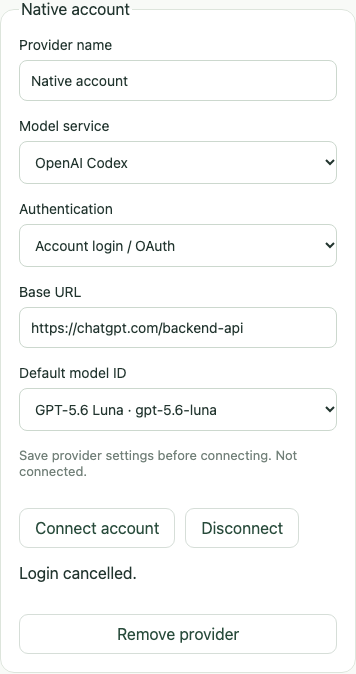
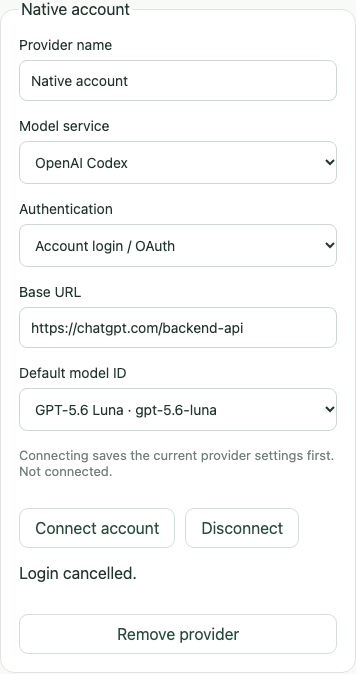
fix: save provider configuration before account login

Changed region(s): [[0.0618, 0.6543, 0.927, 0.7166]]

diff --git a/rewrite/src/routes/settings/+page.svelte b/rewrite/src/routes/settings/+page.svelte
@@ -4,7 +4,10 @@
   import { api } from "$lib/client";
   let settings: any;
   const customAuthModes = ["none", "api_key"];
-  const authModes = (service:string) => service === "custom" ? customAuthModes : settings?.catalog.find((p:any)=>p.id===service)?.authModes??[];
+  const authModes = (service: string) =>
+    service === "custom"
+      ? customAuthModes
+      : (settings?.catalog.find((p: any) => p.id === service)?.authModes ?? []);
   let keys = { chat: "", embedding: "" };
   let clear = { chat: false, embedding: false };
   let providerEnv: Record<string, string> = {};
@@ -36,32 +39,33 @@
       error = (e as Error).message;
     }
   }
+  async function persistProviders() {
+    settings = await api("/api/settings", {
+      defaultProviderId: settings.defaultProviderId,
+      providers: settings.providers.map((p: any) => ({
+        id: p.id,
+        name: p.name,
+        baseUrl: p.baseUrl,
+        modelId: p.modelId,
+        ...(p.service
+          ? { service: p.service, authMode: p.authMode, protocol: p.protocol }
+          : {}),
+        ...(providerEnv[p.id]
+          ? { credentialEnv: JSON.parse(providerEnv[p.id]) }
+          : {}),
+        ...(clearProviderKeys[p.id]
+          ? { apiKey: "" }
+          : providerKeys[p.id]
+            ? { apiKey: providerKeys[p.id] }
+            : {}),
+      })),
+    });
+    providerKeys = {};
+    providerEnv = {};
+    clearProviderKeys = {};
+  }
   async function saveProviders() {
-    await run(async () => {
-      settings = await api("/api/settings", {
-        defaultProviderId: settings.defaultProviderId,
-        providers: settings.providers.map((p: any) => ({
-          id: p.id,
-          name: p.name,
-          baseUrl: p.baseUrl,
-          modelId: p.modelId,
-          ...(p.service
-            ? { service: p.service, authMode: p.authMode, protocol: p.protocol }
-            : {}),
-          ...(providerEnv[p.id]
-            ? { credentialEnv: JSON.parse(providerEnv[p.id]) }
-            : {}),
-          ...(clearProviderKeys[p.id]
-            ? { apiKey: "" }
-            : providerKeys[p.id]
-              ? { apiKey: providerKeys[p.id] }
-              : {}),
-        })),
-      });
-      providerKeys = {};
-      providerEnv = {};
-      clearProviderKeys = {};
-    }, "Providers saved");
+    await run(persistProviders, "Providers saved");
   }
   async function saveEmbedding() {
     await run(async () => {
@@ -219,8 +223,7 @@
                       settings = { ...settings };
                     }}
                   >
-                    {#each authModes(p.service) as mode}<option
-                        value={mode}
+                    {#each authModes(p.service) as mode}<option value={mode}
                         >{mode === "oauth"
                           ? "Account login / OAuth"
                           : mode === "ambient"
@@ -312,6 +315,7 @@
               {#if p.service && p.service !== "custom"}{#key `${p.id}:${p.service}:${p.authMode}`}<ProviderAuth
                     id={p.id}
                     mode={p.authMode}
+                    beforeConnect={persistProviders}
                   />{/key}{/if}
               <button
                 type="button"

diff --git a/rewrite/tests/acceptance.spec.ts b/rewrite/tests/acceptance.spec.ts
@@ -959,8 +959,15 @@ test('native service presets, secret setup and Codex subscription login are dist
  await expect(card.getByLabel('Authentication',{exact:true})).toHaveValue('oauth');
  await expect(card.getByLabel('API key',{exact:true})).toHaveCount(0);
  await expect(card.getByLabel('Base URL',{exact:true})).toBeDisabled();
- await page.getByRole('button',{name:'Save providers',exact:true}).click();
- await expect(page.getByRole('status')).toContainText('Providers saved');
+ // A failed save must not start login against the old server-side service.
+ let loginRequests=0;
+ page.on('request',r=>{if(r.method()==='POST'&&r.url().includes('/api/providers/')&&r.url().endsWith('/auth'))loginRequests++;});
+ await page.route('**/api/settings',route=>route.fulfill({status:400,contentType:'application/json',body:JSON.stringify({error:{message:'Cannot save providers'}})}));
+ await card.getByRole('button',{name:'Connect account',exact:true}).click();
+ await expect(card.getByRole('alert')).toContainText('Cannot save providers');
+ expect(loginRequests).toBe(0);
+ await page.unroute('**/api/settings');
+ // Switching service and connecting directly must save the new mode before login.
  await card.getByRole('button',{name:'Connect account',exact:true}).click();
  await expect(card.getByLabel('Select OpenAI Codex login method:',{exact:true})).toBeVisible();
  await card.screenshot({path:'test-results/codex-oauth-login.png'});

diff --git a/rewrite/src/lib/ProviderAuth.svelte b/rewrite/src/lib/ProviderAuth.svelte
@@ -3,6 +3,7 @@
   import { api } from "./client";
   export let id: string;
   export let mode: string;
+  export let beforeConnect: () => Promise<unknown> = async () => {};
   let status: any;
   let error = "";
   let value = "";
@@ -24,6 +25,7 @@
     error = "";
     busy = true;
     try {
+      if (action === "start") await beforeConnect();
       status = await api(`/api/providers/${id}/auth`, {
         action,
         type: mode,
@@ -48,7 +50,7 @@
 
 <div class="stack">
   <p class="muted">
-    Save provider settings before connecting. {mode === "ambient"
+    Connecting saves the current provider settings first. {mode === "ambient"
       ? "Uses credentials configured on the server."
       : status?.connected
         ? "Credentials saved on the server."

diff --git a/rewrite/docs/provider-auth.md b/rewrite/docs/provider-auth.md
@@ -14,7 +14,7 @@ The UI/catalog is derived from `builtinProviders()` on the server. It returns ch
 
 1. Add a named provider in Settings, choose its service and authentication mode, and select a model. Mainstream services have the official endpoint preset. Providers such as Azure, Cloudflare, Vertex, Bedrock and OpenCode own endpoint construction; a blank base URL means provider-managed, not missing OpenAI configuration.
 2. For simple API-key services, enter the key and save. For cloud credentials, choose **Guided credential setup** after saving. It renders pi-ai's official text, secret and method-selection prompts. Advanced provider-scoped environment JSON supports configuration such as Azure deployment mappings, Cloudflare account/gateway IDs, AWS region/profile and Google project/location/credential-file paths. Stored values are never sent back to the browser.
-3. For account login, save the OAuth mode and use **Connect account**. Follow the official link or device-code instructions, and submit the requested code/redirect URL if prompted. No browser cookies are collected. Pending login has a 15-minute timeout; Cancel closes the official flow. A process restart cancels pending interaction; start login again. Completed credentials persist.
+3. For account login, select the OAuth mode and use **Connect account**. Connecting saves the current provider form before starting login; save failures stop the login request. Follow the official link or device-code instructions, and submit the requested code/redirect URL if prompted. No browser cookies are collected. Pending login has a 15-minute timeout; Cancel closes the official flow. A process restart cancels pending interaction; start login again. Completed credentials persist.
 4. Select provider/model when creating a conversation, or apply a new selection inside an existing conversation. Built-in model IDs are validated against the installed official catalog. Custom endpoints permit arbitrary model IDs.
 
 **OpenAI API key**, **OpenAI / Sign in with ChatGPT** and **OpenAI Codex / ChatGPT Plus/Pro** are separate upstream auth choices. For the requested Codex subscription mode, select **OpenAI Codex**, save, connect, and choose browser or device login. Device login works when the server's loopback callback is inaccessible from your browser. Browser login uses upstream's localhost:1455 callback and manual redirect fallback. Enabling device-code login or access to particular models depends on the account. Your own login must be completed by you on the official page; tests use synthetic token responses and do not establish paid account access.

diff --git a/README.md b/README.md
@@ -82,8 +82,8 @@ before uploading knowledge documents.
 Open **Settings**, add a named provider, choose its service and authentication
 mode, then select a model. API-key services have the official base URL preset;
 enter your key and click **Save providers**. Cloud providers offer guided credential
-setup. For a Codex subscription, select **OpenAI Codex**, save, click **Connect
-account**, and complete the official browser or device login. OpenAI API keys and
+setup. For a Codex subscription, select **OpenAI Codex**, click **Connect
+account** (which saves the configuration), and complete the official browser or device login. OpenAI API keys and
 subscription accounts are separate connections. Custom endpoints remain available
 with their native API protocol. Secrets stay on the server.
 
